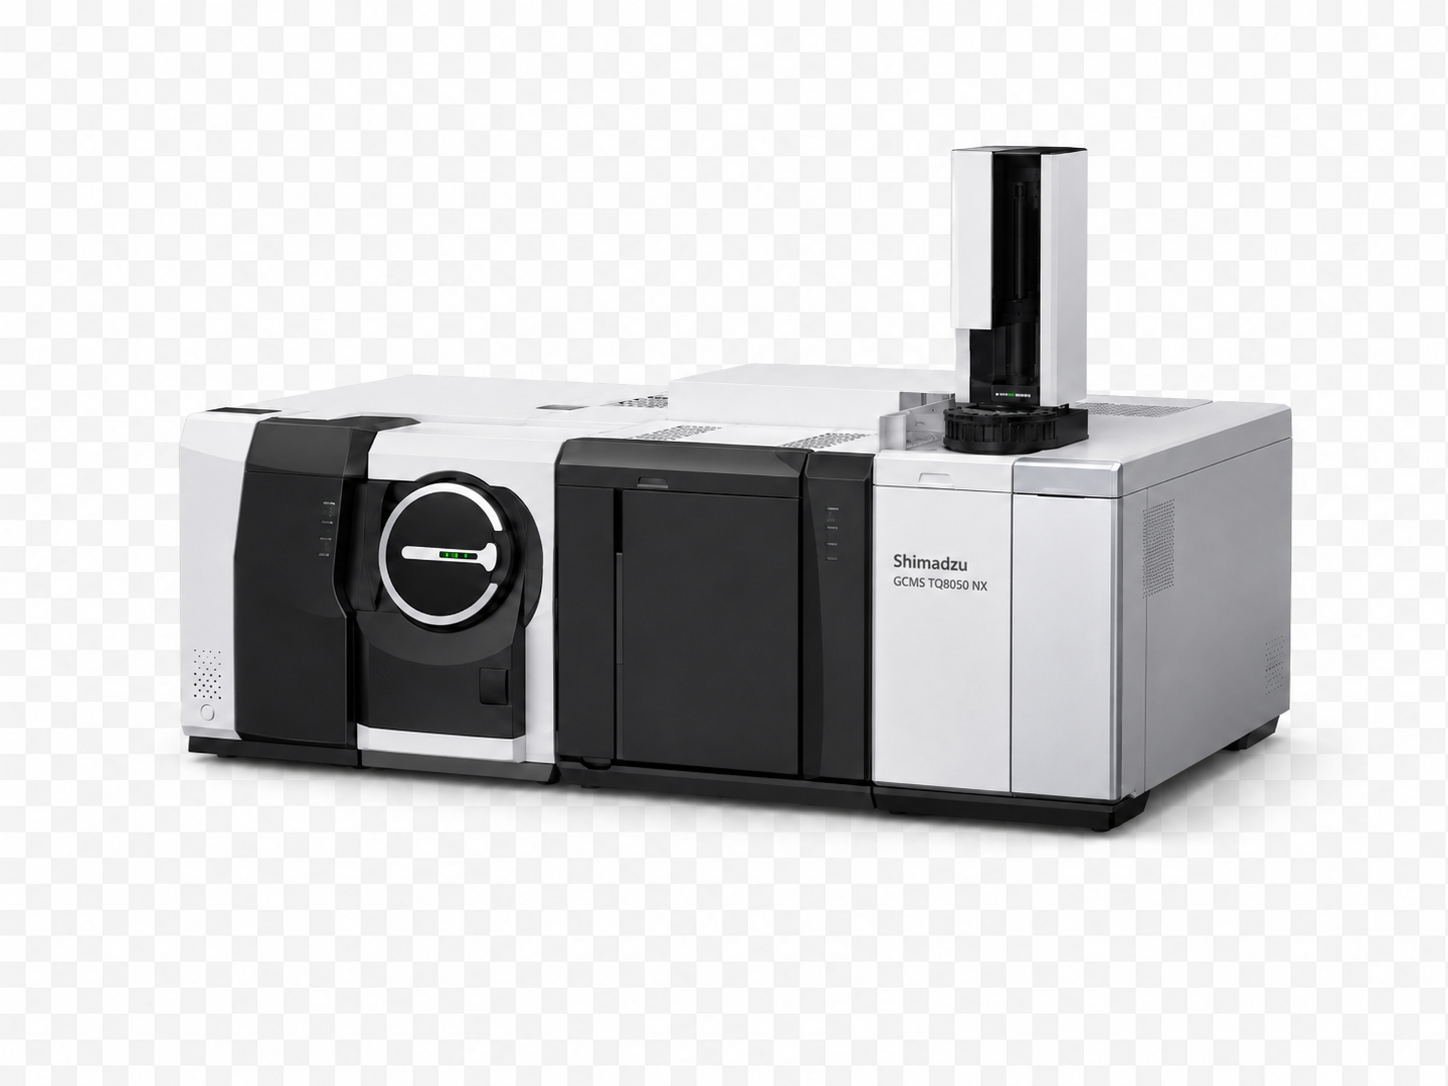
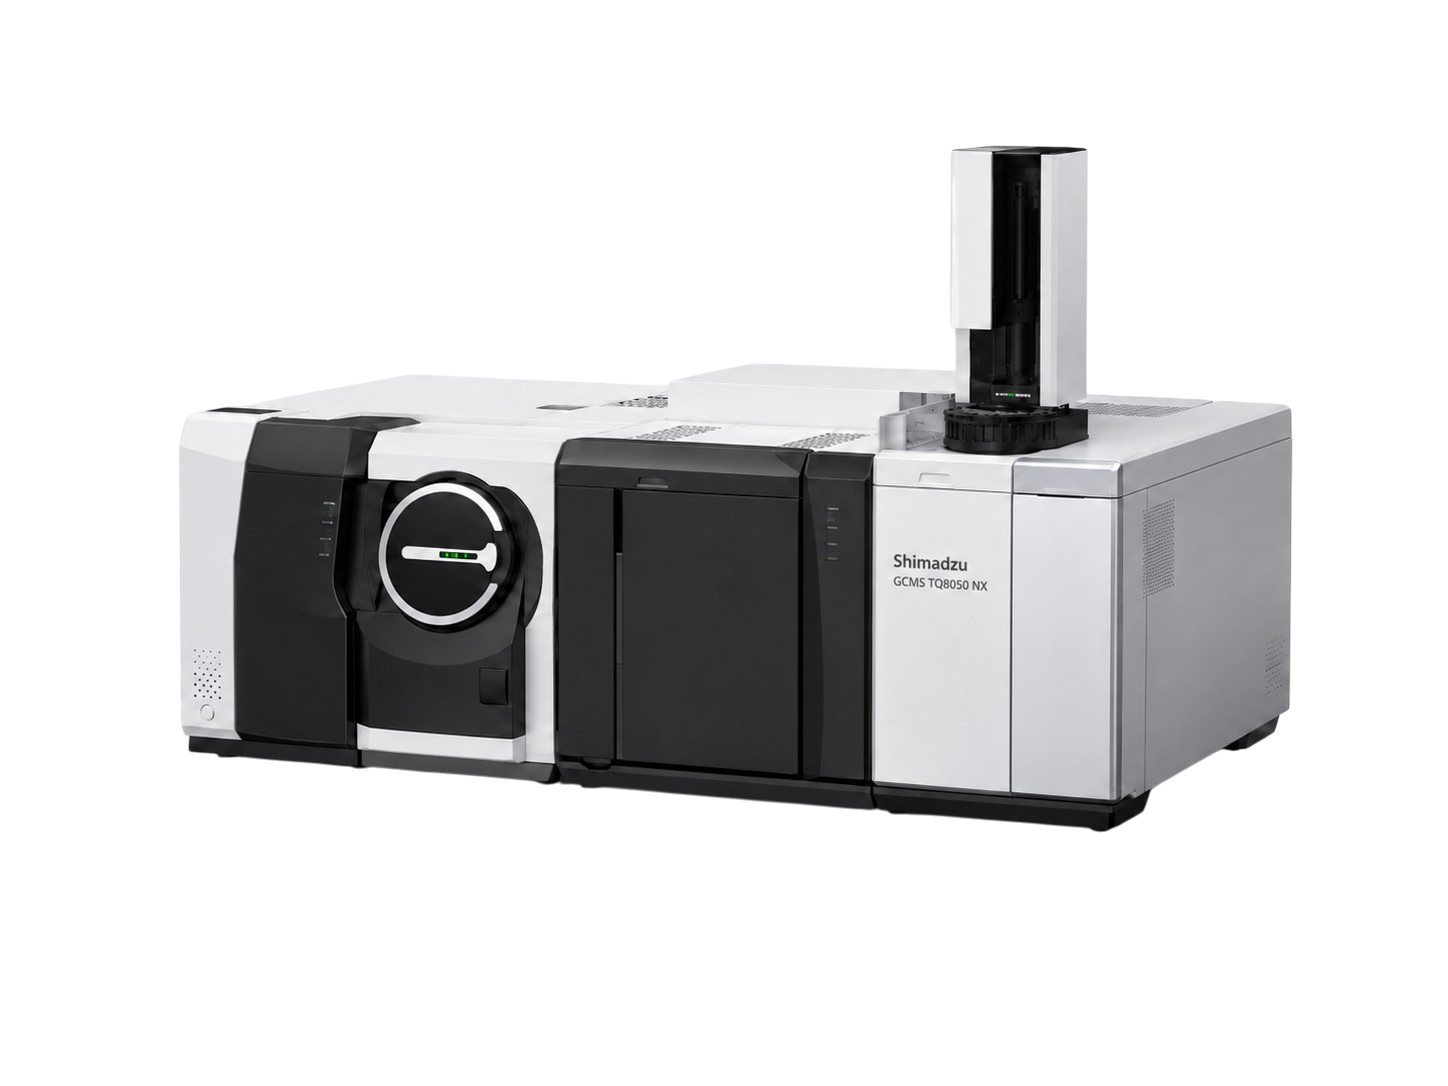
调整GCMS仪器透明图构图

Changed region(s): [[0.1243, 0.6685, 0.9012, 0.7901]]

diff --git a/web/src/pages/operations/LabOperationsCockpit.css b/web/src/pages/operations/LabOperationsCockpit.css
@@ -26,7 +26,7 @@
 .instrument-card { min-width: 0; height: 214px; padding: 11px 14px 10px; display: grid; grid-column: span 3; grid-template-rows: auto minmax(0, 1fr) auto; overflow: hidden; border: 1px solid #d8e5f4; border-radius: 8px; background: #fff; box-shadow: 0 4px 12px rgba(61, 101, 151, .08); }.instrument-card-wide { grid-column: span 4; }.instrument-card-wider { grid-column: span 5; }
 .instrument-heading { position: relative; z-index: 2; display: flex; align-items: flex-start; justify-content: space-between; gap: 8px; pointer-events: none; }.instrument-heading > div { min-width: 0; display: flex; flex-direction: column; }.instrument-heading span { color: #1763e8; font-size: 12px; font-weight: 700; }.instrument-heading strong { margin-top: 3px; overflow: hidden; color: #0d2445; font-size: 15px; text-overflow: ellipsis; white-space: nowrap; }.instrument-heading small { align-self: flex-start; margin-top: 5px; padding: 2px 6px; color: #345b87; border-radius: 4px; background: #eaf1fa; font-size: 11px; }
 .instrument-heading em { flex: 0 0 auto; padding: 2px 10px; border: 1px solid; border-radius: 999px; font-size: 11px; font-style: normal; font-weight: 650; }.instrument-heading em.running { color: #089340; border-color: #bfe8cf; background: #f0fbf4; }.instrument-heading em.idle { color: #246edb; border-color: #cfe0f8; background: #f0f6ff; }.instrument-heading em.maint, .instrument-heading em.fault { color: #e66f17; border-color: #f6d2b5; background: #fff6ef; }
-.instrument-picture { --photo-scale: 1.9; --photo-x: 50%; --photo-y: 50%; position: relative; z-index: 1; min-height: 0; margin: -31px -12px -3px; overflow: hidden; pointer-events: none; }.instrument-picture img { position: absolute; top: var(--photo-y); left: var(--photo-x); width: calc(var(--photo-scale) * 100%); height: calc(var(--photo-scale) * 100%); display: block; object-fit: contain; transform: translate(-50%, -50%); }.instrument-photo-needs-cleanup img { filter: brightness(1.05) contrast(1.01); mix-blend-mode: multiply; -webkit-mask-image: radial-gradient(ellipse 48% 42% at 50% 52%, #000 70%, transparent 100%); mask-image: radial-gradient(ellipse 48% 42% at 50% 52%, #000 70%, transparent 100%); }.instrument-photo-0001 { --photo-scale: 2.05; --photo-x: 54%; --photo-y: 54%; }.instrument-photo-0002 { --photo-scale: 1.72; --photo-x: 52%; --photo-y: 50%; }.instrument-photo-0004, .instrument-photo-0005 { --photo-scale: 2.08; --photo-x: 52%; --photo-y: 55%; }.instrument-photo-0006 { --photo-scale: 1.82; --photo-y: 53%; }.instrument-photo-0007 { --photo-scale: 1.8; --photo-x: 52%; --photo-y: 49%; }.instrument-photo-0011 { --photo-scale: 2.12; --photo-x: 54%; --photo-y: 54%; }.utilization-row { position: relative; z-index: 3; display: grid; grid-template-columns: auto minmax(50px, 1fr) auto; align-items: center; gap: 9px; font-size: 11px; }.utilization-row i { height: 5px; overflow: hidden; border-radius: 8px; background: #e7edf4; }.utilization-row b { height: 100%; display: block; border-radius: inherit; background: #22ad58; }.utilization-row strong { font-size: 12px; }
+.instrument-picture { --photo-scale: 1.9; --photo-x: 50%; --photo-y: 50%; position: relative; z-index: 1; min-height: 0; margin: -31px -12px -3px; overflow: hidden; pointer-events: none; }.instrument-picture img { position: absolute; top: var(--photo-y); left: var(--photo-x); width: calc(var(--photo-scale) * 100%); height: calc(var(--photo-scale) * 100%); display: block; object-fit: contain; transform: translate(-50%, -50%); }.instrument-photo-needs-cleanup img { filter: brightness(1.05) contrast(1.01); mix-blend-mode: multiply; -webkit-mask-image: radial-gradient(ellipse 48% 42% at 50% 52%, #000 70%, transparent 100%); mask-image: radial-gradient(ellipse 48% 42% at 50% 52%, #000 70%, transparent 100%); }.instrument-photo-0001 { --photo-scale: 2.05; --photo-x: 54%; --photo-y: 54%; }.instrument-photo-0002 { --photo-scale: 1.72; --photo-x: 52%; --photo-y: 50%; }.instrument-photo-0004, .instrument-photo-0005 { --photo-scale: 2.08; --photo-x: 52%; --photo-y: 55%; }.instrument-photo-0006 { --photo-scale: 1.82; --photo-y: 53%; }.instrument-photo-0007 { --photo-scale: 1.92; --photo-x: 51%; --photo-y: 64%; }.instrument-photo-0011 { --photo-scale: 2.12; --photo-x: 54%; --photo-y: 54%; }.utilization-row { position: relative; z-index: 3; display: grid; grid-template-columns: auto minmax(50px, 1fr) auto; align-items: center; gap: 9px; font-size: 11px; }.utilization-row i { height: 5px; overflow: hidden; border-radius: 8px; background: #e7edf4; }.utilization-row b { height: 100%; display: block; border-radius: inherit; background: #22ad58; }.utilization-row strong { font-size: 12px; }
 .summary-column { display: grid; grid-template-rows: auto 1fr; gap: 2px; }.summary-card { padding: 17px 18px; }.status-summary { border-bottom-right-radius: 5px; border-bottom-left-radius: 5px; }.status-summary h2, .ranking-card h2 { margin-bottom: 9px; }.status-row { min-height: 50px; display: grid; grid-template-columns: 30px minmax(90px, 1fr) 58px 78px; align-items: center; gap: 8px; border-top: 1px solid #e5edf7; font-size: 13px; }.status-row:first-of-type { border-top: 0; }.summary-icon { width: 28px; height: 28px; display: grid; place-items: center; color: #fff; border-radius: 50%; }.summary-icon.green { background: #0daa4d; }.summary-icon.blue { background: #377ee6; }.summary-icon.orange { background: #f28a30; }.summary-icon.red { background: #ed5860; }.status-row strong { color: #0d9e45; font-size: 24px; }.status-row strong small { margin-left: 4px; color: #29405d; font-size: 11px; font-weight: 500; }.status-row em { justify-self: end; color: #71839b; font-size: 11px; font-style: normal; }
 .ranking-card { padding-bottom: 10px; border-top-right-radius: 5px; border-top-left-radius: 5px; }.ranking-card ol { margin: 0; padding: 0; list-style: none; }.ranking-card li { min-height: 38px; display: grid; grid-template-columns: 26px 1fr auto; align-items: center; gap: 7px; }.ranking-card li > span { width: 24px; height: 24px; display: grid; place-items: center; color: #fff; border-radius: 50%; font-weight: 700; }.rank-1 { background: #e8a400; }.rank-2 { background: #aab9cc; }.rank-3 { background: #e59450; }.ranking-card p { min-width: 0; margin: 0; overflow: hidden; font-size: 12px; text-overflow: ellipsis; white-space: nowrap; }.ranking-card p small { font-size: inherit; }.ranking-card li > strong { font-size: 14px; }.health-state { min-height: 51px; margin-top: 4px; padding: 8px 12px; display: flex; align-items: center; gap: 12px; color: #169a4d; background: #f4faf7; }.health-state.warning { color: #e46b20; background: #fff7f0; }.health-state > svg { font-size: 29px; }.health-state div { display: flex; flex-direction: column; }.health-state strong { font-size: 14px; }.health-state span { color: #73829a; font-size: 11px; }
 .chart-grid { display: grid; grid-template-columns: 1.3fr .74fr 1.55fr; gap: 14px; margin-top: 14px; }.chart-card { min-height: 181px; padding: 16px 18px 12px; }.chart-card header { display: flex; align-items: center; justify-content: space-between; }.chart-card header span { color: #526783; font-size: 11px; }.chart-card header i { width: 18px; height: 3px; display: inline-block; margin-right: 7px; background: #2f78ed; vertical-align: middle; }

diff --git a/web/src/pages/operations/LabOperationsCockpit.vue b/web/src/pages/operations/LabOperationsCockpit.vue
@@ -205,7 +205,7 @@ function instrumentCardClass(code: string) {
 }
 function instrumentPhotoClass(code: string) {
   const classes = [`instrument-photo-${code.slice(-4)}`]
-  if (['ZBYY-002-0006', 'ZBYY-002-0007'].includes(code)) classes.push('instrument-photo-needs-cleanup')
+  if (code === 'ZBYY-002-0006') classes.push('instrument-photo-needs-cleanup')
   return classes
 }
 function instrumentModel(id: number) { return instruments.value.find(item => item.id === id)?.model }